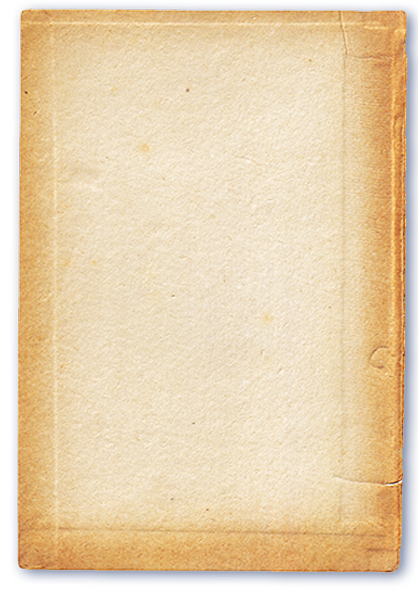
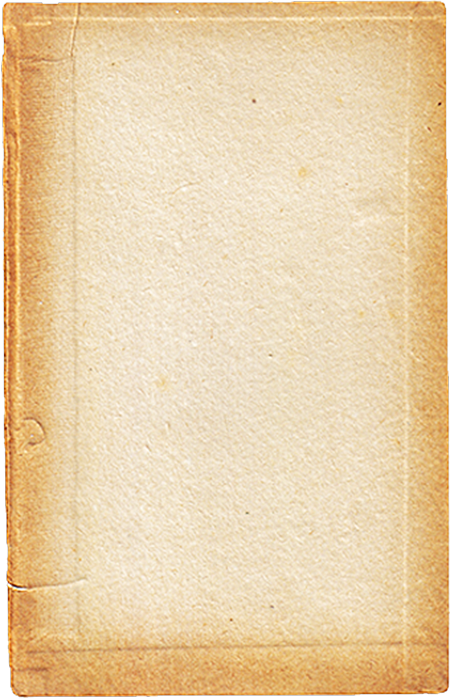
Changed some textures and design

diff --git a/Interface.cpp b/Interface.cpp
@@ -91,18 +91,20 @@ inline void Interface::drawCoordinates(int x, int y, int size) const
 
 void Interface::showMessage(const std::wstring& msg) const
 {
-    int windowWidth = fieldSize * 7, windowHeight = fieldSize * 3;
+    int windowWidth = fieldSize * 7, windowHeight = fieldSize * 4;
 
-    RectangleShape messageWindow(Vector2f(windowWidth, windowHeight));
-    messageWindow.setPosition((screenWidth - windowWidth) / 2, (screenHeight - windowHeight) / 2);
-    messageWindow.setOutlineThickness(0.0047 * screenHeight);
-    messageWindow.setOutlineColor(Color::Black);
+    // RectangleShape messageWindow(Vector2f(windowWidth, windowHeight));
+    // messageWindow.setPosition((screenWidth - windowWidth) / 2, (screenHeight - windowHeight) / 2);
+    // messageWindow.setOutlineThickness(0.0047 * screenHeight);
+    // messageWindow.setOutlineColor(Color::Black);
 
     Text messageText(msg, arialFont, 0.03704 * screenHeight);
     messageText.setFillColor(Color::Black);
     messageText.setPosition((screenWidth - messageText.getGlobalBounds().width) / 2, (screenHeight - messageText.getGlobalBounds().height) / 2);
 
-    window->draw(messageWindow);
+    
+    // window->draw(messageWindow);
+    window->draw(img["dialogBackground"].second);
     window->draw(messageText);
     window->display();
 
@@ -200,20 +202,23 @@ Interface::Interface(const RenderWindow* window)
     img["gameWindow"].first.loadFromFile("images/interface/windows/GameWindowBackground.jpg");
     img["gameWindow"].second.setTexture(&img["gameWindow"].first);
 
-    img["referenceWindow"] = std::pair(Texture(), RectangleShape(Vector2f(0.6 * Width, 0.73 * Height)));
+    img["referenceWindow"] = std::pair(Texture(), RectangleShape(Vector2f(0.5 * Width, 0.6 * Height)));
     img["referenceWindow"].first.loadFromFile("images/interface/windows/ReferenceWindowBackground.png");
     img["referenceWindow"].second.setTexture(&img["referenceWindow"].first);
-    img["referenceWindow"].second.setPosition(-50, -43);
 
     img["fieldBackground"] = std::pair(Texture(), RectangleShape(Vector2f(24 * fieldSize, 12 * fieldSize)));
     img["fieldBackground"].first.loadFromFile("images/interface/windows/FieldBackground.png");
     img["fieldBackground"].second.setTexture(&img["fieldBackground"].first);
-    img["fieldBackground"].second.setPosition(350, 130);
+    img["fieldBackground"].second.setPosition(0.1823 * screenWidth, 0.12038 * screenHeight);
 
-    img["recordsWindow"] = std::pair(Texture(), RectangleShape(Vector2f(screenWidth / 4.5, screenHeight / 1.5)));
+    img["recordsWindow"] = std::pair(Texture(), RectangleShape(Vector2f(screenWidth / 5, screenHeight / 2)));
     img["recordsWindow"].first.loadFromFile("images/interface/windows/RecordsWindowBackground.png");
     img["recordsWindow"].second.setTexture(&img["recordsWindow"].first);
-    img["recordsWindow"].second.setPosition(-23, -13);
+
+    img["dialogBackground"] = std::pair(Texture(), RectangleShape(Vector2f(fieldSize * 7, fieldSize * 4)));
+    img["dialogBackground"].first.loadFromFile("images/interface/windows/DialogWindowsBackground.png");
+    img["dialogBackground"].second.setTexture(&img["dialogBackground"].first);
+    img["dialogBackground"].second.setPosition((screenWidth - fieldSize * 7) / 2, (screenHeight - fieldSize * 4) / 2);
 
     img["mainWindowsButton"] = std::pair(Texture(), RectangleShape(Vector2f(0.5 * Width, 0.07831 * Height)));
     img["mainWindowsButton"].first.loadFromFile("images/interface/buttons/MainWindowsButton.png");
